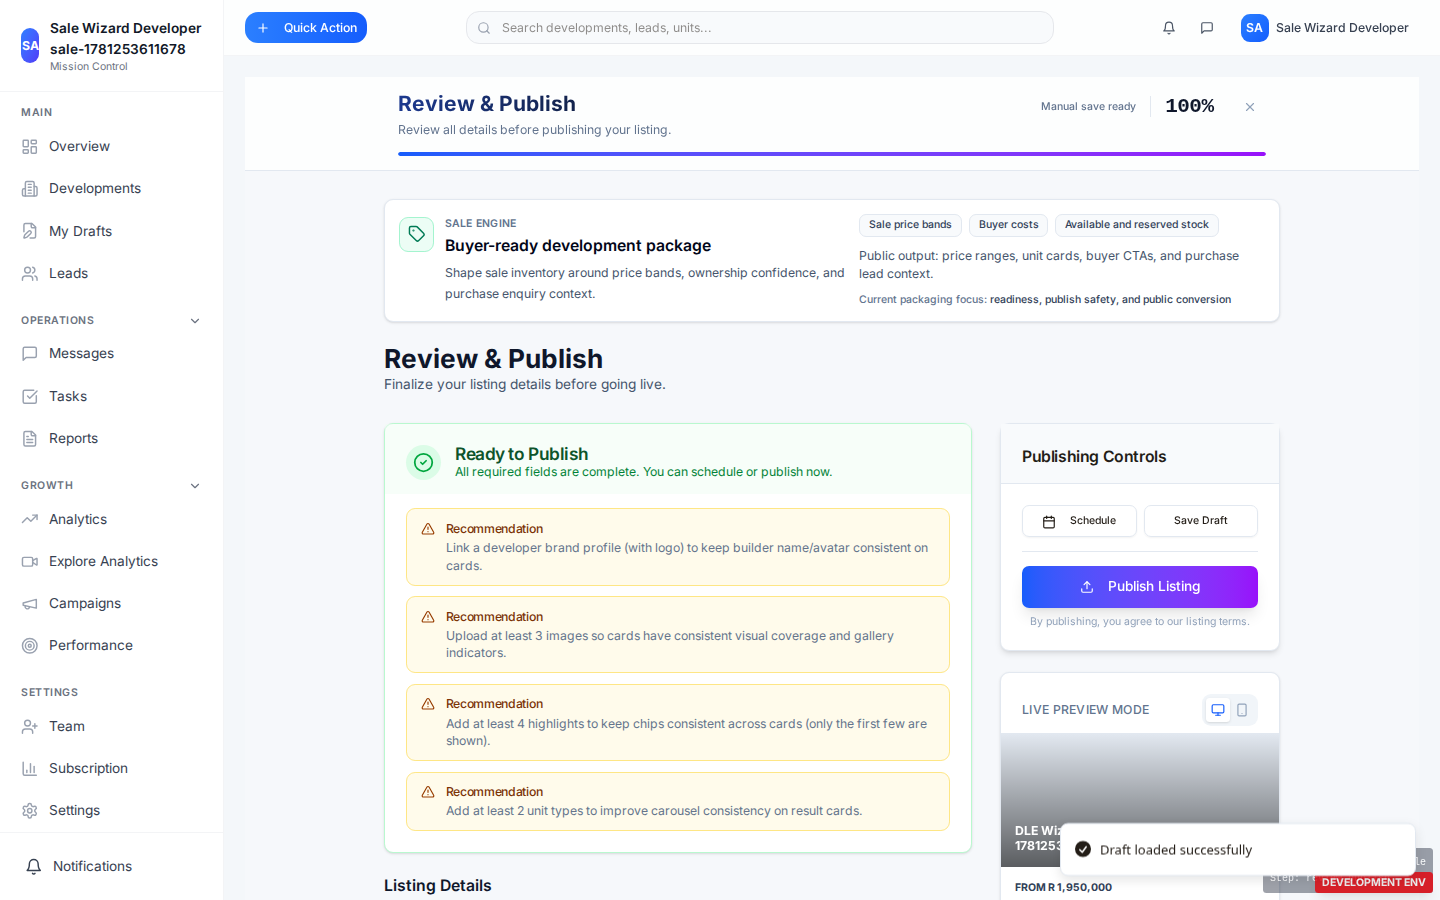
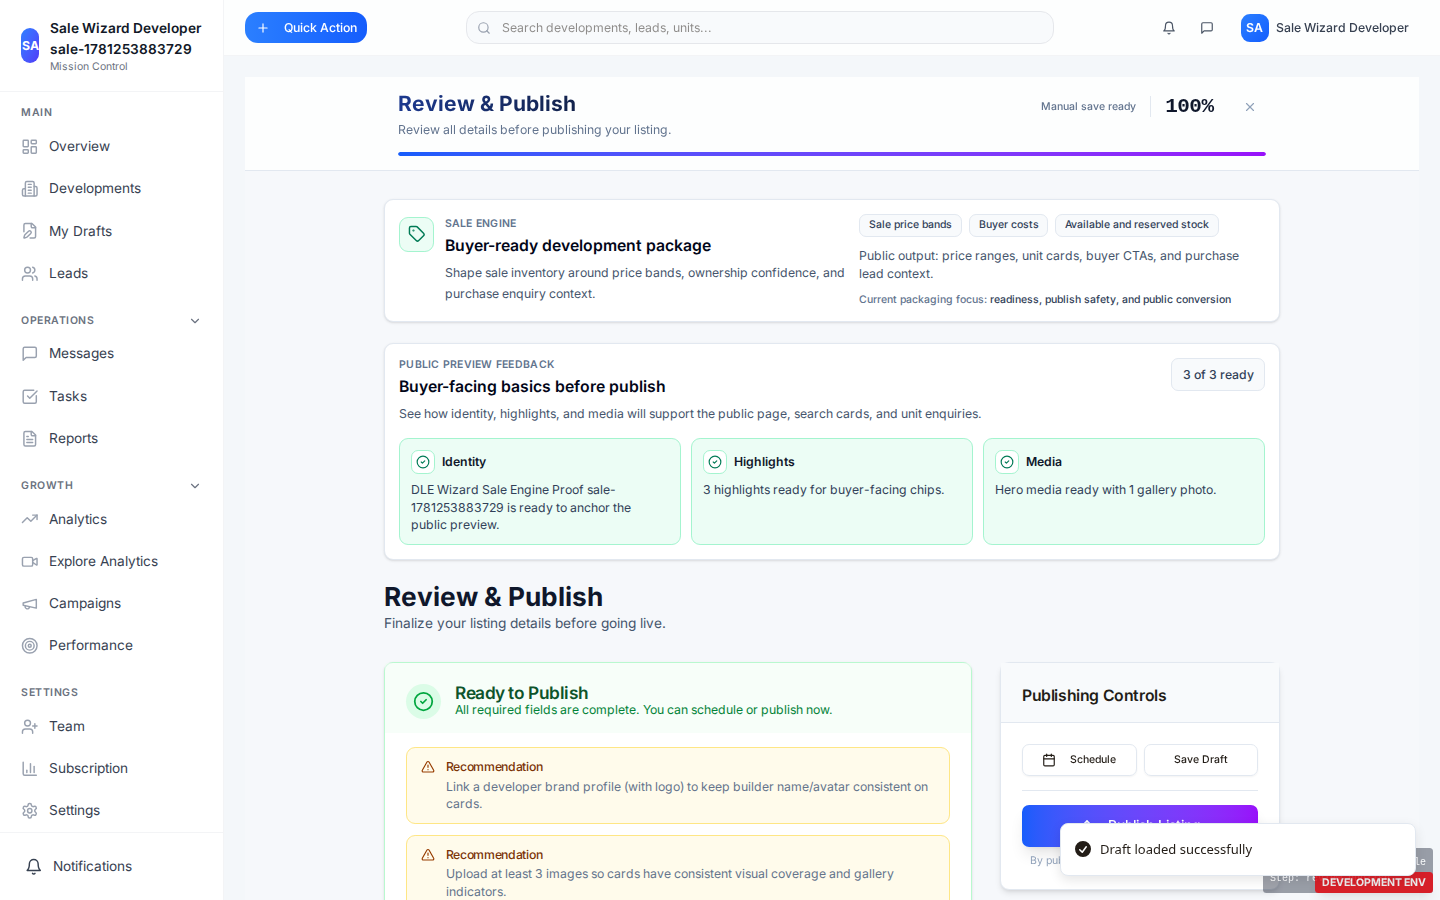
feat(dle): show wizard public preview feedback

diff --git a/client/src/components/wizard/WizardEngine.tsx b/client/src/components/wizard/WizardEngine.tsx
@@ -1,7 +1,17 @@
 import React, { useEffect } from 'react';
 import { useDevelopmentWizard } from '@/hooks/useDevelopmentWizard';
 import { Button } from '@/components/ui/button';
-import { ChevronLeft, ChevronRight, Gavel, KeyRound, Save, Tag } from 'lucide-react';
+import {
+  CheckCircle2,
+  ChevronLeft,
+  ChevronRight,
+  Gavel,
+  Image as ImageIcon,
+  KeyRound,
+  ListChecks,
+  Save,
+  Tag,
+} from 'lucide-react';
 import { DevelopmentTypePhase } from '../development-wizard/phases/DevelopmentTypePhase';
 import { ResidentialConfigPhase } from '../development-wizard/phases/ResidentialConfigPhase';
 import { IdentityPhase } from '../development-wizard/phases/IdentityPhase';
@@ -30,6 +40,13 @@ const STEP_COMPONENTS: Record<string, React.ComponentType<any>> = {
 
 type WizardTransactionEngine = 'sale' | 'rental' | 'auction';
 type WizardRemediationIntent = 'pricing' | null;
+type PublicPreviewSignalState = 'complete' | 'attention';
+
+type PublicPreviewSignal = {
+  detail: string;
+  label: string;
+  state: PublicPreviewSignalState;
+};
 
 const TRANSACTION_ENGINE_COPY: Record<
   WizardTransactionEngine,
@@ -99,6 +116,55 @@ export function getWizardTransactionEngineCopy(value: unknown) {
   return TRANSACTION_ENGINE_COPY[normalizeWizardTransactionEngine(value)];
 }
 
+const asTrimmedString = (value: unknown) => (typeof value === 'string' ? value.trim() : '');
+
+const getMediaUrl = (value: unknown) => {
+  if (typeof value === 'string') return value.trim();
+  if (value && typeof value === 'object' && 'url' in value) {
+    return asTrimmedString((value as { url?: unknown }).url);
+  }
+  return '';
+};
+
+export function getWizardPublicPreviewFeedback(data: Partial<WizardData>): PublicPreviewSignal[] {
+  const name = asTrimmedString(data.name);
+  const status = asTrimmedString((data as any).status);
+  const highlights = Array.isArray((data as any).highlights)
+    ? ((data as any).highlights as unknown[]).filter(item => asTrimmedString(item).length > 0)
+    : [];
+  const media = ((data as any).media ?? {}) as Record<string, any>;
+  const heroUrl = getMediaUrl((data as any).heroImage) || getMediaUrl(media.heroImage);
+  const photos = Array.isArray(media.photos) ? media.photos : [];
+  const usablePhotoCount = photos.filter(photo => getMediaUrl(photo).length > 0).length;
+  const hasHero = heroUrl.length > 0 || usablePhotoCount > 0;
+
+  return [
+    {
+      label: 'Identity',
+      state: name && status ? 'complete' : 'attention',
+      detail:
+        name && status
+          ? `${name} is ready to anchor the public preview.`
+          : 'Add the development name and market status for public page and card previews.',
+    },
+    {
+      label: 'Highlights',
+      state: highlights.length >= 3 ? 'complete' : 'attention',
+      detail:
+        highlights.length >= 3
+          ? `${highlights.length} highlights ready for buyer-facing chips.`
+          : `Add ${Math.max(3 - highlights.length, 0)} more highlight${3 - highlights.length === 1 ? '' : 's'} for buyer-facing chips.`,
+    },
+    {
+      label: 'Media',
+      state: hasHero ? 'complete' : 'attention',
+      detail: hasHero
+        ? `Hero media ready with ${usablePhotoCount} gallery photo${usablePhotoCount === 1 ? '' : 's'}.`
+        : 'Add hero media so the public page and search cards do not launch visually empty.',
+    },
+  ];
+}
+
 function TransactionEngineGuidance({
   currentStepId,
   remediationIntent,
@@ -166,6 +232,66 @@ function TransactionEngineGuidance({
   );
 }
 
+function PublicPreviewFeedback({ wizardData }: { wizardData: WizardData }) {
+  const signals = getWizardPublicPreviewFeedback(wizardData);
+  const readyCount = signals.filter(signal => signal.state === 'complete').length;
+
+  return (
+    <section
+      aria-label="Public preview feedback"
+      className="mb-6 rounded-lg border border-slate-200 bg-white p-4 shadow-sm"
+    >
+      <div className="flex flex-col gap-4 md:flex-row md:items-start md:justify-between">
+        <div>
+          <p className="text-xs font-semibold uppercase tracking-wide text-slate-500">
+            Public preview feedback
+          </p>
+          <h2 className="mt-1 text-lg font-semibold text-slate-950">
+            Buyer-facing basics before publish
+          </h2>
+          <p className="mt-1 max-w-2xl text-sm leading-6 text-slate-600">
+            See how identity, highlights, and media will support the public page, search cards, and
+            unit enquiries.
+          </p>
+        </div>
+        <div className="rounded-md border border-slate-200 bg-slate-50 px-3 py-2 text-sm font-medium text-slate-700">
+          {readyCount} of {signals.length} ready
+        </div>
+      </div>
+
+      <div className="mt-4 grid gap-3 md:grid-cols-3">
+        {signals.map(signal => {
+          const isComplete = signal.state === 'complete';
+          const Icon = signal.label === 'Media' ? ImageIcon : signal.label === 'Highlights' ? ListChecks : Tag;
+
+          return (
+            <div
+              key={signal.label}
+              className={`rounded-lg border p-3 ${
+                isComplete ? 'border-emerald-200 bg-emerald-50' : 'border-amber-200 bg-amber-50'
+              }`}
+            >
+              <div className="flex items-center gap-2">
+                <span
+                  className={`flex h-7 w-7 items-center justify-center rounded-md border ${
+                    isComplete
+                      ? 'border-emerald-200 bg-white text-emerald-700'
+                      : 'border-amber-200 bg-white text-amber-700'
+                  }`}
+                >
+                  {isComplete ? <CheckCircle2 className="h-4 w-4" /> : <Icon className="h-4 w-4" />}
+                </span>
+                <p className="text-sm font-semibold text-slate-900">{signal.label}</p>
+              </div>
+              <p className="mt-2 text-sm leading-5 text-slate-700">{signal.detail}</p>
+            </div>
+          );
+        })}
+      </div>
+    </section>
+  );
+}
+
 interface WizardEngineProps {
   onExit?: () => void;
   saveStatus?: 'saved' | 'saving' | 'error' | 'unsaved';
@@ -198,11 +324,14 @@ export function WizardEngine({
     transactionType,
     listingIdentity,
     setWorkflowStep,
+    getWizardData,
   } = useDevelopmentWizard();
 
   // Compute workflow data early (needed for useEffect)
   const workflow = workflowId ? WORKFLOWS[workflowId] : null;
-  const wizardData = { ...developmentData, developmentType, listingIdentity } as WizardData;
+  const wizardData = getWizardData
+    ? getWizardData()
+    : ({ ...developmentData, developmentType, listingIdentity } as WizardData);
   const visibleSteps = workflow ? getVisibleSteps(workflow, wizardData) : [];
   const currentStepIndex = visibleSteps.findIndex(s => s.id === currentStepId);
 
@@ -267,6 +396,7 @@ export function WizardEngine({
             remediationIntent={remediationIntent}
             transactionType={activeTransactionType}
           />
+          <PublicPreviewFeedback wizardData={wizardData} />
 
           {/* Validation Errors for Current Step */}
           {currentErrors && currentErrors.length > 0 && (

diff --git a/client/src/components/wizard/WizardEngine.test.tsx b/client/src/components/wizard/WizardEngine.test.tsx
@@ -3,7 +3,7 @@ import { fireEvent, render, screen } from '@testing-library/react';
 import { beforeEach, describe, expect, it, vi } from 'vitest';
 
 import { useDevelopmentWizard } from '@/hooks/useDevelopmentWizard';
-import { WizardEngine } from './WizardEngine';
+import { getWizardPublicPreviewFeedback, WizardEngine } from './WizardEngine';
 
 vi.mock('../development-wizard/phases/IdentityPhase', () => ({
   IdentityPhase: () => <div>Identity phase</div>,
@@ -105,4 +105,66 @@ describe('WizardEngine transaction engine guidance', () => {
       expect(screen.getByText(/market identity, launch posture, and developer promise/i)).toBeTruthy();
     },
   );
+});
+
+describe('WizardEngine public preview feedback', () => {
+  beforeEach(() => {
+    setRentalIdentityStep();
+  });
+
+  it('surfaces identity, highlights, and media readiness from canonical wizard data', () => {
+    useDevelopmentWizard.setState({
+      workflowId: 'residential_sale',
+      currentStepId: 'identity_market' as any,
+      developmentType: 'residential',
+      transactionType: 'for_sale' as any,
+      developmentData: {
+        name: 'Preview Ready Sale',
+        status: 'launching-soon',
+        developmentType: 'residential',
+        transactionType: 'for_sale',
+        highlights: ['Views', 'Security', 'Walkable retail'],
+        media: {
+          heroImage: { url: 'https://cdn.example.com/hero.jpg' },
+          photos: [{ url: 'https://cdn.example.com/gallery.jpg' }],
+        },
+      } as any,
+    });
+
+    render(<WizardEngine />);
+
+    expect(screen.getByLabelText('Public preview feedback')).toBeTruthy();
+    expect(screen.getByText('Buyer-facing basics before publish')).toBeTruthy();
+    expect(screen.getByText('3 of 3 ready')).toBeTruthy();
+    expect(screen.getByText(/Preview Ready Sale is ready to anchor the public preview/i)).toBeTruthy();
+    expect(screen.getByText(/3 highlights ready for buyer-facing chips/i)).toBeTruthy();
+    expect(screen.getByText(/Hero media ready with 1 gallery photo/i)).toBeTruthy();
+  });
+
+  it('shows missing preview basics before the package is public-ready', () => {
+    const feedback = getWizardPublicPreviewFeedback({
+      name: '',
+      status: '',
+      highlights: ['Only one'],
+      media: { photos: [] },
+    } as any);
+
+    expect(feedback).toEqual([
+      expect.objectContaining({
+        label: 'Identity',
+        state: 'attention',
+        detail: expect.stringMatching(/Add the development name and market status/i),
+      }),
+      expect.objectContaining({
+        label: 'Highlights',
+        state: 'attention',
+        detail: 'Add 2 more highlights for buyer-facing chips.',
+      }),
+      expect.objectContaining({
+        label: 'Media',
+        state: 'attention',
+        detail: expect.stringMatching(/Add hero media/i),
+      }),
+    ]);
+  });
 });

diff --git a/e2e/dle/sale-wizard-engine-band.spec.ts b/e2e/dle/sale-wizard-engine-band.spec.ts
@@ -308,8 +308,19 @@ test.describe.serial('DLE sale wizard engine-band proof', () => {
     await expect(engineContext).toContainText(/price ranges, unit cards, buyer CTAs, and purchase lead context/i);
     await expect(engineContext).toContainText('readiness, publish safety, and public conversion');
 
+    const previewFeedback = page.getByLabel('Public preview feedback');
+    await expect(previewFeedback).toBeVisible();
+    await expect(previewFeedback.getByText('Buyer-facing basics before publish')).toBeVisible();
+    await expect(previewFeedback.getByText('3 of 3 ready')).toBeVisible();
+    await expect(previewFeedback.getByText(/is ready to anchor the public preview/i)).toBeVisible();
+    await expect(previewFeedback.getByText(/3 highlights ready for buyer-facing chips/i)).toBeVisible();
+    await expect(previewFeedback.getByText(/Hero media ready with 1 gallery photo/i)).toBeVisible();
+
     await page.screenshot({
       path: `${evidenceDir}/qa-dle-sale-wizard-engine-band.png`,
+    });
+    await previewFeedback.screenshot({
+      path: `${evidenceDir}/qa-dle-sale-wizard-public-preview-feedback.png`,
     });
   });
 });

diff --git a/docs/dle/RECOVERY_LOG.md b/docs/dle/RECOVERY_LOG.md
@@ -5842,3 +5842,47 @@ Next recommended slice:
   highlights, and media.
 Commit hash/tag: Included in `test(dle): prove sale wizard engine band`.
 Uncommitted reason, if any: None.
+
+## 2026-06-12 - Wizard Public Preview Feedback
+
+Date: 2026-06-12
+Branch: refine/homepage-phase1-clarity-trust
+Goal: Add live wizard-shell feedback that tells developers whether identity, highlights, and media
+are ready to support buyer-facing public pages, search cards, and unit enquiries before publish.
+Files changed:
+- client/src/components/wizard/WizardEngine.tsx
+- client/src/components/wizard/WizardEngine.test.tsx
+- e2e/dle/sale-wizard-engine-band.spec.ts
+- docs/dle/TRANSACTION_ENGINE_PRODUCT_EXPERIENCE_AUDIT.md
+- docs/dle/RECOVERY_LOG.md
+- docs/dle/evidence/2026-06-12/qa-dle-sale-wizard-engine-band.png
+- docs/dle/evidence/2026-06-12/qa-dle-sale-wizard-public-preview-feedback.png
+Tests run:
+- `pnpm vitest run client/src/components/wizard/WizardEngine.test.tsx` passed.
+- `PLAYWRIGHT_SKIP_WEBSERVER=1 BASE_URL=http://localhost:3009 pnpm exec playwright test e2e/dle/sale-wizard-engine-band.spec.ts --project="Desktop Chrome" --workers=1`
+  passed with 1 test.
+- `pnpm run check` passed.
+- `git diff --check` passed.
+Functional proof:
+- The wizard shell now renders `Public preview feedback` from canonical wizard data.
+- The feedback reports readiness for identity, highlights, and media, with attention-state messages
+  when any public-preview basic is missing.
+- Component proof verifies a fully ready package shows `3 of 3 ready` and that an incomplete
+  package asks for missing identity, two more highlights, and hero media.
+- Browser proof resumes a saved Sale canonical draft and verifies the real wizard shell shows the
+  feedback panel with ready identity, three highlights, and hero media/gallery feedback.
+Guardrails:
+- No schema, migration, route, save, publish, lead, distribution, or operating mutation is intended
+  in this slice.
+- The panel reads canonical wizard data and does not create another persistence source.
+- Existing unrelated homepage files, older evidence screenshots, Playwright report output, and
+  test-results changes must not be staged.
+Remaining risks:
+- This first preview-feedback slice covers shared identity/highlights/media basics. Rental-native
+  deposit/lease/furnished/availability feedback and Auction-native timing/reserve/legal-pack
+  feedback remain separate transaction-engine slices.
+Next recommended slice:
+- If verification passes, make Rental packaging feel more lease-native inside the wizard, starting
+  with deposit, lease term, furnished state, availability, and renter qualification feedback.
+Commit hash/tag: Included in `feat(dle): show wizard public preview feedback`.
+Uncommitted reason, if any: None.

diff --git a/docs/dle/TRANSACTION_ENGINE_PRODUCT_EXPERIENCE_AUDIT.md b/docs/dle/TRANSACTION_ENGINE_PRODUCT_EXPERIENCE_AUDIT.md
@@ -300,9 +300,25 @@ The browser proof now seeds a real saved Sale canonical draft, resumes it throug
 This closes the remaining Sale evidence gap for the wizard engine band, bringing browser-level
 proof across Sale, Rental, and Auction resume flows before the next UI/product upgrade slice.
 
+## Sixteenth Product-Visibility Slice
+
+Add live public-preview feedback for wizard identity, highlights, and media.
+
+The wizard shell now shows a `Public preview feedback` panel from canonical wizard data, beside the
+transaction-engine guidance. The panel tells developers whether the buyer-facing basics are ready
+before publish:
+
+- Identity: development name and market status for public pages and cards;
+- Highlights: at least three buyer-facing chips;
+- Media: hero media or usable gallery imagery so public surfaces do not launch visually empty.
+
+This turns part of the public merchandising layer into live packaging feedback. Developers can now
+see whether the public page, search card, and lead-entry context have enough identity, highlight,
+and visual material while they are still building the package, instead of discovering it only at
+publish time.
+
 ## Remaining Product Gaps
 
-- Add live public-preview feedback for identity, highlights, and media.
 - Make Rental packaging feel lease-native: deposit, lease term, furnished state, availability, and
   renter qualification should feel intentional rather than optional add-ons.
 - Make Auction packaging feel auction-native: auction window, reserve, bidder registration, legal
@@ -323,5 +339,7 @@ proof across Sale, Rental, and Auction resume flows before the next UI/product u
   complete for `WizardEngine`.
 - Browser proof that active Sale, Rental, and Auction draft/resume flows render the correct engine
   band. Status: complete for saved canonical draft resume.
+- Component and Sale browser proof that the wizard shell renders public-preview feedback for
+  identity, highlights, and media. Status: complete for canonical saved Sale draft resume.
 - Product screenshots showing before/after public merchandising improvements.
 - Dashboard/operations evidence when live-development management begins.